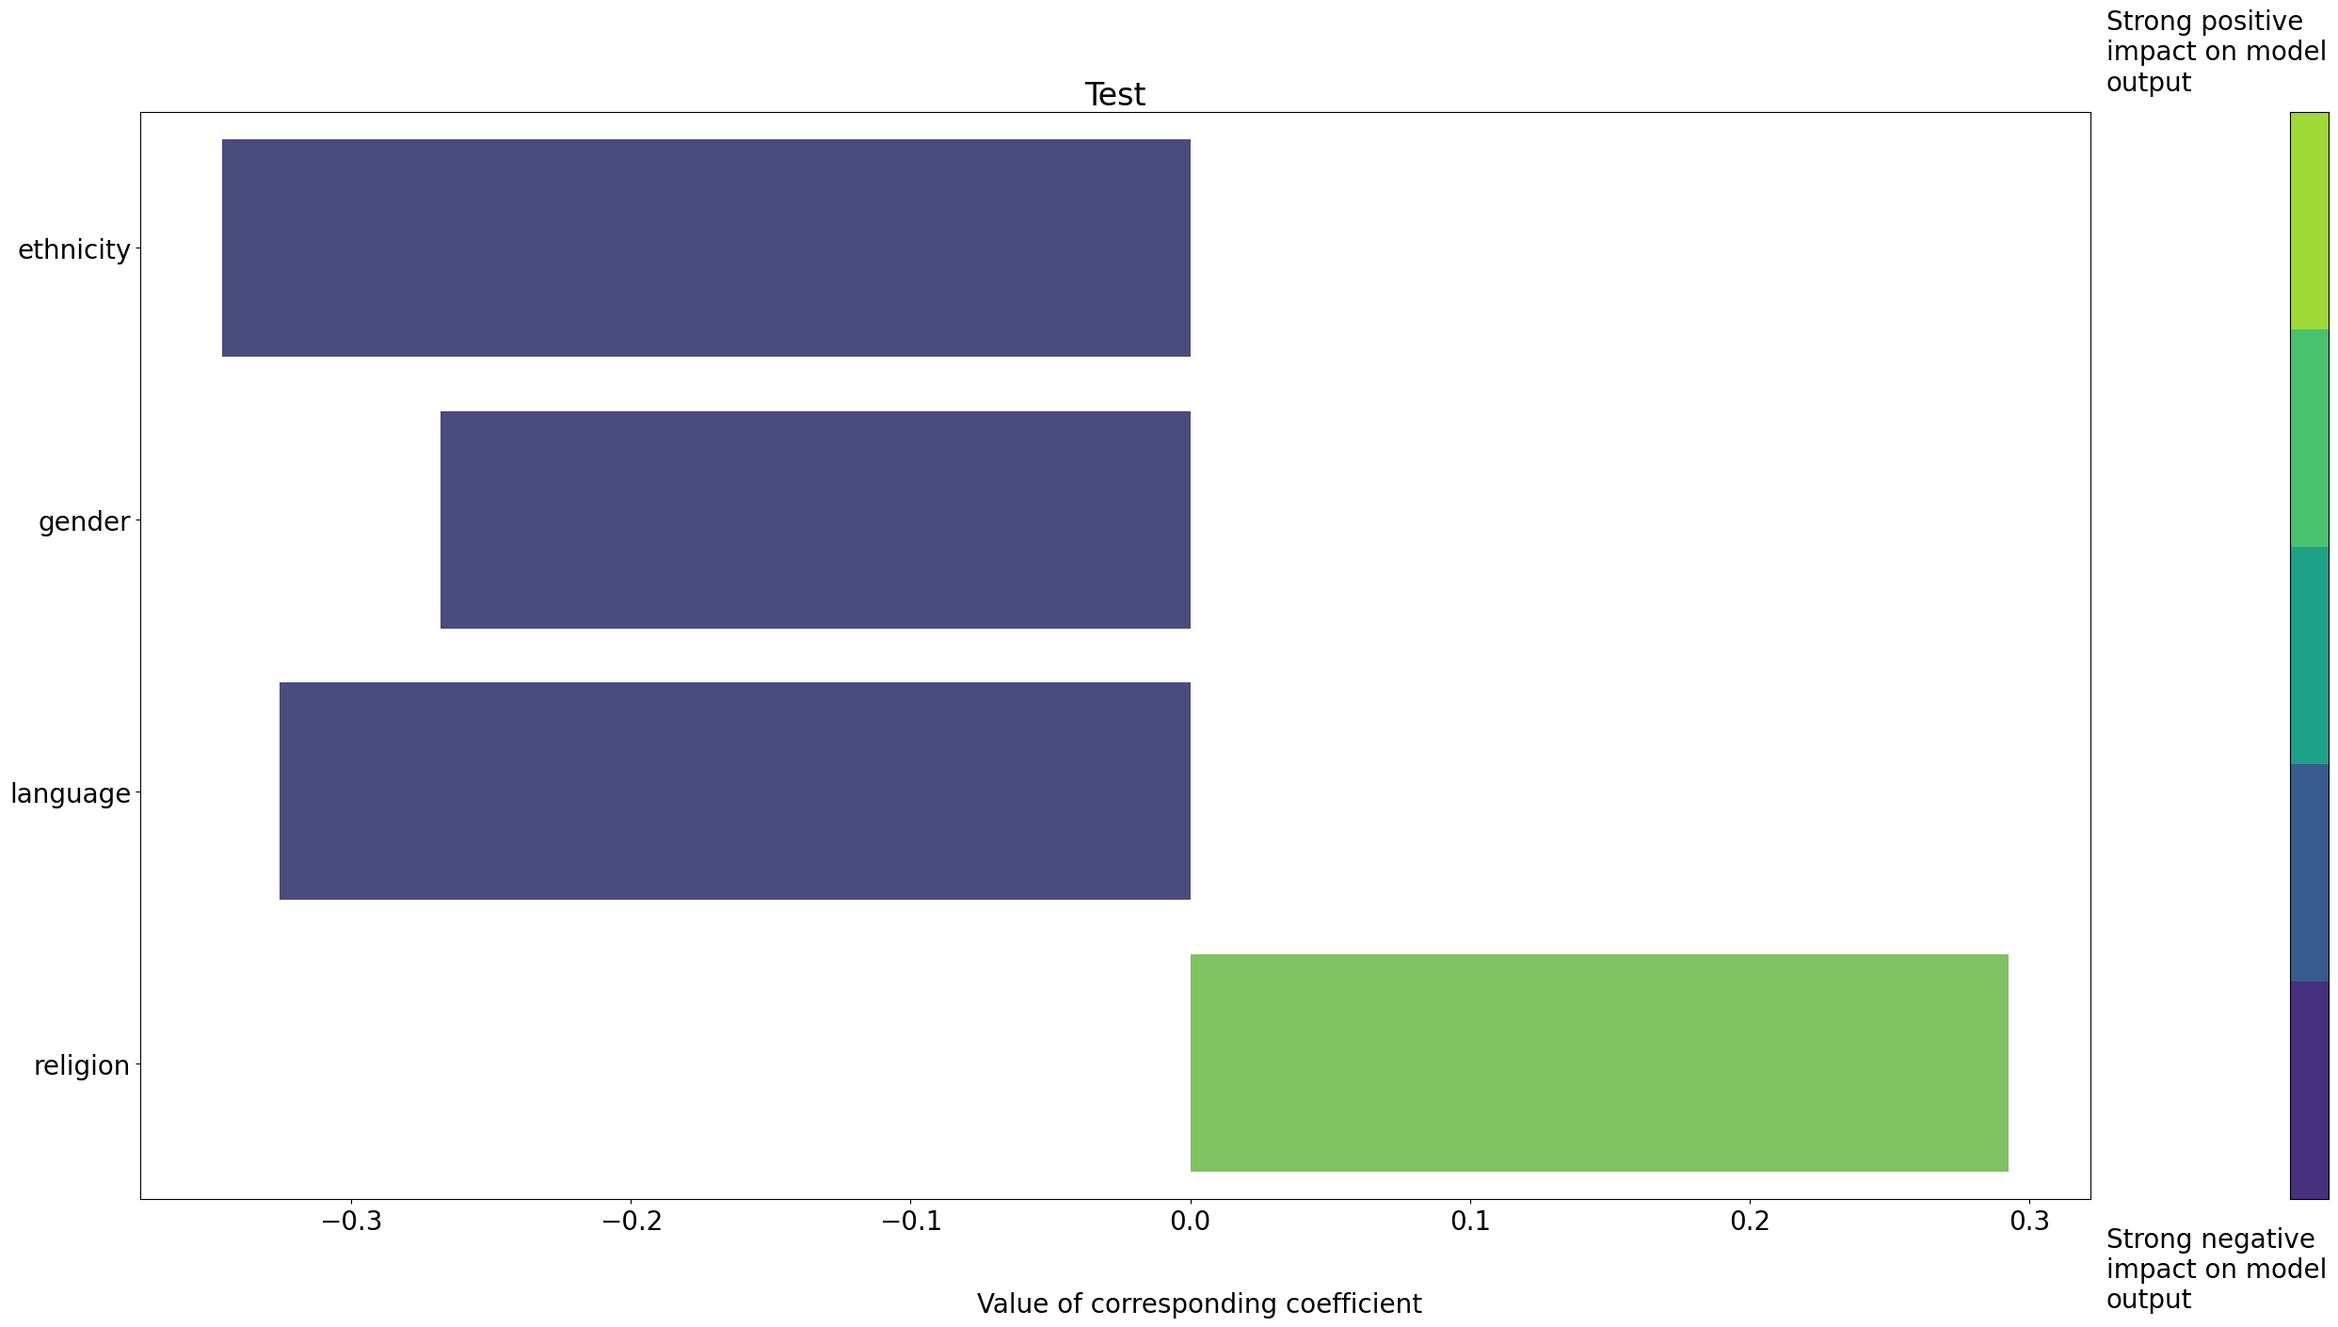
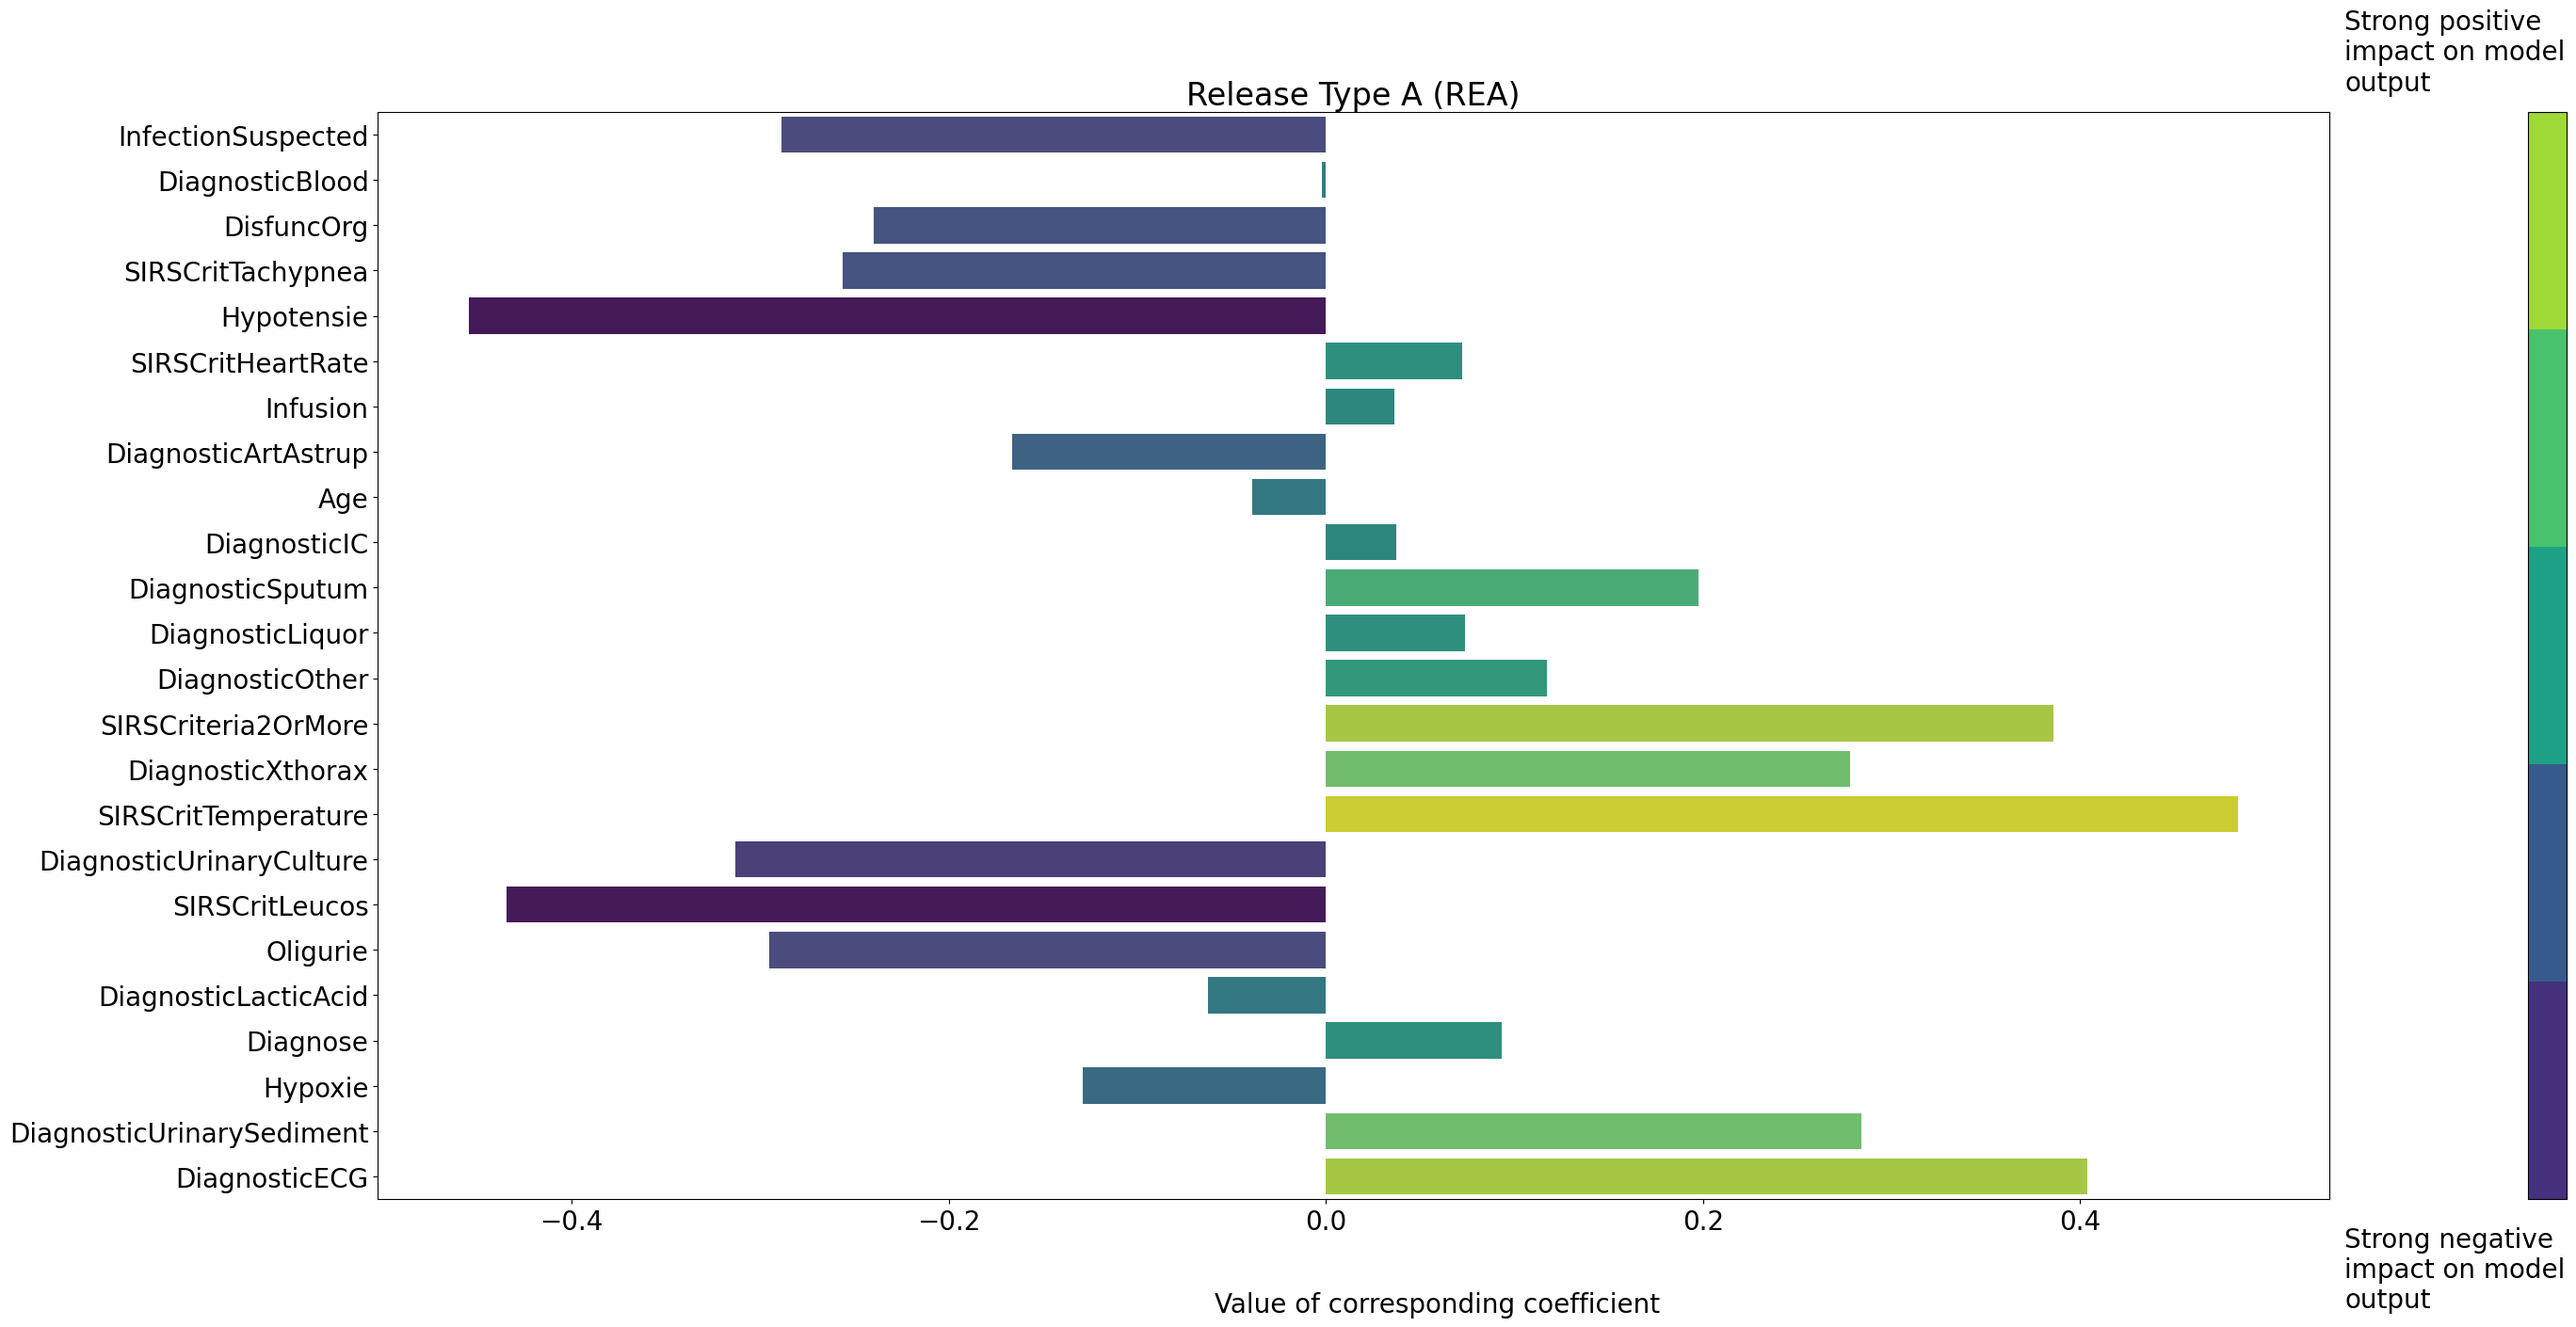
Update of coef plot.

diff --git a/src/plotting/coef_barplot_sepsis.py b/src/plotting/coef_barplot_sepsis.py
@@ -5,10 +5,8 @@ import seaborn as sns
 
 # Example values for coefs of two tasks
 task_1 = "Release Type A (REA)"
-task_2 = "Admission IC (AIC)"
 
 coef_values_task_1 = [-0.2888972, -0.001997236, -0.23954397, -0.2559873, -0.45435518, 0.07244425, 0.03626472, -0.16619293, -0.038904637, 0.037489716, 0.1976995, 0.07379714, 0.11746674, 0.3859931, 0.2782478, 0.4835849, -0.3130332, -0.43463305, -0.294928, -0.062663764, 0.09346965, -0.12880808, 0.28425518, 0.4040266]
-coef_values_task_2 = [-0.2888972, -0.001997236, -0.23954397, -0.2559873, -0.45435518, 0.07244425, 0.03626472, -0.16619293, -0.038904637, 0.037489716, 0.1976995, 0.07379714, 0.11746674, 0.3859931, 0.2782478, 0.4835849, -0.3130332, -0.43463305, -0.294928, -0.062663764, 0.09346965, -0.12880808, 0.28425518, 0.4040266]
 
 static_features = ['InfectionSuspected', 'DiagnosticBlood', 'DisfuncOrg',
                        'SIRSCritTachypnea', 'Hypotensie',
@@ -20,8 +18,6 @@ static_features = ['InfectionSuspected', 'DiagnosticBlood', 'DisfuncOrg',
                        'DiagnosticUrinarySediment', 'DiagnosticECG']
 
 coefs_task_1 = dict(zip([x for x in static_features], np.array(coef_values_task_1)))
-coefs_task_2 = dict(zip([x for x in static_features], np.array(coef_values_task_2)))
-
 
 def colors_from_values(values, palette_name):
     normalized = (values - min(values)) / (max(values) - min(values))
@@ -39,18 +35,17 @@ def my_palplot(pal, size=1, ax=None):
               interpolation="nearest", aspect="auto")
 
 
-def plot_box_plots(coefs_1, coefs_2):
+def plot_box_plots(coefs_1):
     matplotlib.rcParams.update({'font.size': 20, 'figure.figsize': (8,8)})
     
-    max_v = max(max(list(coefs_1.values())), max(list(coefs_2.values())))
-    min_v = min(min(list(coefs_1.values())), min(list(coefs_2.values())))
+    max_v = max(list(coefs_1.values()))
+    min_v = min(list(coefs_1.values()))
     
     fig = plt.figure(figsize=(30, 15), constrained_layout=False)
-    grid = fig.add_gridspec(1, 3, width_ratios=[10, 10, 0.2], wspace=0.2, hspace=0.0)
+    grid = fig.add_gridspec(1, 2, width_ratios=[10, 0.2], wspace=0.2, hspace=0.0)
     
     ax1 = fig.add_subplot(grid[0, 0])
     ax2 = fig.add_subplot(grid[0, 1])
-    ax3 = fig.add_subplot(grid[0, 2])
     
     def plot_on_ax(ax, coefs, title):
         coefs_values = list(coefs.values())
@@ -62,20 +57,19 @@ def plot_box_plots(coefs_1, coefs_2):
         ax.title.set_text(title)
     
     plot_on_ax(ax1, coefs_1, title=task_1)
-    plot_on_ax(ax2, coefs_2, title=task_2)
     
     fig.text(0.5, 0.03, 'Value of corresponding coefficient', ha='center')
 
-    my_palplot(sns.color_palette("viridis"), ax=ax3)
-    ax3.text(-5.2, 5.0, 'Strong negative\nimpact on model\noutput')
-    ax3.text(-5.2, -0.6, 'Strong positive\nimpact on model\noutput')
-    ax3.set_yticks([])
-    ax3.set_xticks([])
-    ax3.set_xticklabels([])
-    ax3.set_yticklabels([])
+    my_palplot(sns.color_palette("viridis"), ax=ax2)
+    ax2.text(-5.2, 5.0, 'Strong negative\nimpact on model\noutput')
+    ax2.text(-5.2, -0.6, 'Strong positive\nimpact on model\noutput')
+    ax2.set_yticks([])
+    ax2.set_xticks([])
+    ax2.set_xticklabels([])
+    ax2.set_yticklabels([])
 
     plt.tight_layout()
     plt.savefig('tmp.png', bbox_inches="tight")
 
 
-plot_box_plots(coefs_task_1, coefs_task_2)
+plot_box_plots(coefs_task_1)
